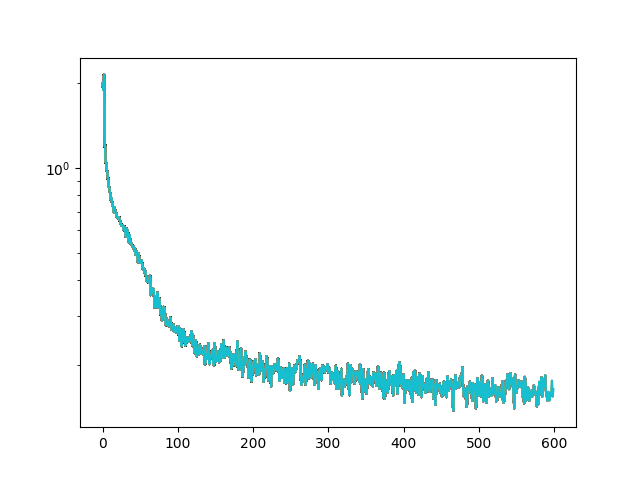
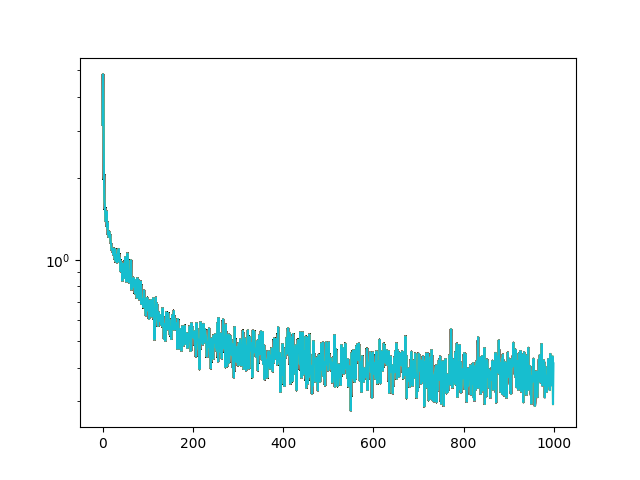
updated tunet and visualization for sine wave sampler amplitude classes

diff --git a/backbones.py b/backbones.py
@@ -29,6 +29,60 @@ class FourierEncoder(nn.Module):
         cos_embed = torch.cos(freqs) # (bs, half_dim)
         return torch.cat([sin_embed, cos_embed], dim=-1) * math.sqrt(2) # (bs, dim)
     
+class SinusoidalTimeEmbedding(nn.Module):
+    def __init__(self, dim: int):
+        super().__init__()
+ 
+        assert dim % 2 == 0
+        self.half_dim = dim // 2
+ 
+    def forward(self, t: torch.Tensor) -> torch.Tensor:
+        # t: (B,) or (B, 1)
+ 
+        t = t.view(-1, 1)
+        # (B, 1)
+ 
+        # Compute frequencies: [1, 10000^(2i/d)]
+        freqs = torch.exp(
+            -math.log(10000)
+            * torch.arange(0, self.half_dim, dtype=torch.float32)
+            / self.half_dim
+        ).to(t.device)
+        # (half_dim,)
+ 
+        angles = t * freqs * 2 * math.pi
+        # (B, half_dim)
+ 
+        emb = torch.cat([torch.sin(angles), torch.cos(angles)], dim=-1)
+        # (B, dim)
+ 
+        return emb
+
+class Conditioner(nn.Module):
+    def __init__(self, num_classes: int, t_dim: int, y_dim: int, cond_dim: int) -> None:
+        super().__init__()
+ 
+        self.t_embedder = SinusoidalTimeEmbedding(t_dim)
+        self.y_embedder = nn.Embedding(num_classes + 1, y_dim)
+ 
+        self.mlp = nn.Sequential(
+            nn.Linear(t_dim + y_dim, cond_dim),
+            nn.SiLU(),
+            nn.Linear(cond_dim, cond_dim),
+        )
+ 
+    def forward(self, t: torch.Tensor, y: torch.Tensor) -> torch.Tensor:
+        # t: (B,)
+        # y: (B,)
+ 
+        t_embed = self.t_embedder(t)
+        y_embed = self.y_embedder(y)
+        cond = torch.cat([t_embed, y_embed], dim=1)
+        cond = self.mlp(cond)
+        # (B, cond_dim)
+ 
+        return cond
+    
 class ResidualLayer(nn.Module):
     def __init__(self, channels: int, time_embed_dim: int, y_embed_dim: int):
         super().__init__()
@@ -343,74 +397,67 @@ class TUNet(ConditionalVectorField):
     """
     1D UNet for conditional sine wave generation
     """
-    def __init__(self, channels: List[int], num_residual_layers: int, t_embed_dim: int, y_embed_dim: int, y_input_dim: int = 1, input_channels: int = 1): 
+    def __init__(self, channels: List[int], num_residual_layers: int, 
+                 cond_dim: int, num_classes: int, input_channels: int = 1): 
         super().__init__()
-        # Initial convolution: (bs, 1, L) -> (bs, c_0, L)
+        
         self.init_conv = nn.Sequential(
             nn.Conv1d(input_channels, channels[0], kernel_size=3, padding=1),
             nn.BatchNorm1d(channels[0]),
             nn.SiLU()
         )
 
-        # Initialize time embedder
-        self.time_embedder = FourierEncoder(t_embed_dim)
-
-        # Initialize y embedder (for continuous conditioning)
-        self.y_embedder = nn.Sequential(
-            nn.Linear(y_input_dim, y_embed_dim),
-            nn.SiLU(),
-            nn.Linear(y_embed_dim, y_embed_dim)
+        # Replace separate embedders with Conditioner
+        self.conditioner = Conditioner(
+            num_classes=num_classes,  # e.g., 3 for your amplitude classes
+            t_dim=128,               # time embedding dimension
+            y_dim=128,               # class embedding dimension
+            cond_dim=cond_dim        # final conditioning dimension
         )
 
-        # Encoders and Decoders
+        # Encoders and Decoders (use cond_dim for both t_embed_dim and y_embed_dim)
         encoders = []
         decoders = []
         for (curr_c, next_c) in zip(channels[:-1], channels[1:]):
-            encoders.append(Encoder1D(curr_c, next_c, num_residual_layers, t_embed_dim, y_embed_dim))
-            decoders.append(Decoder1D(next_c, curr_c, num_residual_layers, t_embed_dim, y_embed_dim))
+            encoders.append(Encoder1D(curr_c, next_c, num_residual_layers, cond_dim, cond_dim))
+            decoders.append(Decoder1D(next_c, curr_c, num_residual_layers, cond_dim, cond_dim))
         self.encoders = nn.ModuleList(encoders)
         self.decoders = nn.ModuleList(reversed(decoders))
 
-        self.midcoder = Midcoder1D(channels[-1], num_residual_layers, t_embed_dim, y_embed_dim)
-            
-        # Final convolution
+        self.midcoder = Midcoder1D(channels[-1], num_residual_layers, cond_dim, cond_dim)
         self.final_conv = nn.Conv1d(channels[0], 1, kernel_size=3, padding=1)
 
     def forward(self, x: torch.Tensor, t: torch.Tensor, y: torch.Tensor):
         """
         Args:
-        - x: (bs, 1, L) where L is signal length and 1 the number of channels
-        - t: (bs, 1, 1) time parameter
-        - y: (bs, 1) frequency label
-        Returns:
-        - u_t^theta(x|y): (bs, 1, L)
+        - x: (bs, 1, L)
+        - t: (bs, 1, 1) -> will be squeezed to (bs,)
+        - y: (bs,) integer class indices [0, num_classes-1]
         """
-        # Embed t and y
-        t_embed = self.time_embedder(t) # (bs, t_embed_dim)
-        y_embed = self.y_embedder(y) # (bs, y_embed_dim)
+        # Get unified conditioning vector
+        t = t.squeeze(-1).squeeze(-1)  # (bs,)
+        y = y.squeeze(-1)  # (bs,)
+        cond = self.conditioner(t, y)  # (bs, cond_dim)
         
-        # Initial convolution
-        x = self.init_conv(x) # (bs, c_0, L)
-
+        # Use same conditioning for both time and class
+        t_embed = cond
+        y_embed = cond
+        
+        x = self.init_conv(x)
         residuals = []
         
-        # Encoders
         for encoder in self.encoders:
-            x = encoder(x, t_embed, y_embed) # (bs, c_i, L) -> (bs, c_{i+1}, L // 2)
+            x = encoder(x, t_embed, y_embed)
             residuals.append(x.clone())
 
-        # Midcoder
         x = self.midcoder(x, t_embed, y_embed)
 
-        # Decoders
         for decoder in self.decoders:
-            res = residuals.pop() # (bs, c_i, L)
+            res = residuals.pop()
             x = x + res
-            x = decoder(x, t_embed, y_embed) # (bs, c_i, L) -> (bs, c_{i-1}, 2*L)
+            x = decoder(x, t_embed, y_embed)
 
-        # Final convolution
-        x = self.final_conv(x) # (bs, 1, L)
-
+        x = self.final_conv(x)
         return x
 
 if __name__ == "__main__":
@@ -418,11 +465,11 @@ if __name__ == "__main__":
     model = TUNet(
         channels = [32, 64, 128],
         num_residual_layers = 2,
-        t_embed_dim = 40,
-        y_embed_dim = 40,
+        cond_dim = 40,
+        num_classes = 10,  # For example, if you have 10 classes
     )
     x = torch.randn(4, 1, 628)  # (bs=4, channels=1, signal_length=628)
     t = torch.randn(4, 1, 1)    # (bs=4, 1, 1)
-    y = torch.randn(4, 1)       # (bs=4, 1)
+    y = torch.randint(0, 10, (4, 1))  # (bs=4, 1) with class indices
     out = model(x, t, y)
-    print(out.shape)  # Expected output shape: (4, 1, 628)    
+    print(out.shape)  # Expected output shape: (4, 1, 628)

diff --git a/utility.py b/utility.py
@@ -206,47 +206,71 @@ def visualize_generated_mnist_samples(path: ConditionalProbabilityPath, model: C
     plt.show()
 
 def visualize_generated_sine_waves(model: ConditionalVectorField,
-                                   num_freqs: int = 5,
-                                   samples_per_freq: int = 1,
+                                   samples_per_amplitude: int = 3,
                                    num_timesteps: int = 100,
                                    guidance_scales = (1.0,)):
     """
-    Sample random frequencies, generate sine waves via the trained model, and plot them.
+    Generate sine waves per amplitude class via the trained model, and plot them grouped by amplitude.
+    
+    Args:
+        - model: trained conditional vector field model
+        - samples_per_amplitude: number of samples to generate per amplitude class
+        - num_timesteps: number of time steps for ODE simulation
+        - guidance_scales: tuple of guidance scale values to test
     """
     model.eval()
 
-    # Infer signal length from the sine sampler defaults (keeps consistent with training)
+    # Infer signal length and amplitude classes from the sine sampler
     sampler = SineWaveSampler()
     signal_length = sampler.sample_rate * sampler.duration
     t_axis = torch.linspace(0, sampler.duration, signal_length, device=device)
+    amplitudes = sampler.amplitudes  # e.g., [1, 2, 3]
+    num_classes = len(amplitudes)
+    
+    # Create CLASS INDEX labels: [0, 0, 0, 1, 1, 1, 2, 2, 2, ...]
+    class_indices = torch.arange(num_classes, device=device).repeat_interleave(samples_per_amplitude)  # (num_samples,)
+    num_samples = class_indices.shape[0]
 
-    # Random frequencies in [0, 1]; repeat for multiple samples per frequency
-    base_freqs = torch.rand(num_freqs, 1, device=device)                # (num_freqs, 1)
-    frequencies = base_freqs.repeat_interleave(samples_per_freq, dim=0) # (num_samples, 1)
-    num_samples = frequencies.shape[0]
-
-    # Initial noise and time discretization (shape-safe for 1D)
+    # Initial noise and time discretization
     x0 = torch.randn(num_samples, 1, signal_length, device=device)      # (bs, 1, L)
     ts = torch.linspace(0, 1, num_timesteps, device=device)             # (nts,)
     ts = ts.view(1, -1, 1, 1).expand(num_samples, -1, 1, 1)             # (bs, nts, 1, 1)
 
-    fig, axes = plt.subplots(1, len(guidance_scales), figsize=(10 * len(guidance_scales), 6))
-    if len(guidance_scales) == 1:
-        axes = [axes]
+    # Create subplots: rows = amplitude classes, cols = guidance scales
+    fig, axes = plt.subplots(num_classes, len(guidance_scales), 
+                            figsize=(8 * len(guidance_scales), 4 * num_classes),
+                            squeeze=False)
 
     with torch.no_grad():
-        for ax, w in zip(axes, guidance_scales):
+        for col_idx, w in enumerate(guidance_scales):
             ode = CFGVectorFieldODE(model, guidance_scale=float(w))
             simulator = EulerSimulator(ode)
-            x1 = simulator.simulate(x0.clone(), ts, y=frequencies)      # (bs, 1, L)
+            x1 = simulator.simulate(x0.clone(), ts, y=class_indices)  # (bs, 1, L)
 
-            for sidx in range(num_samples):
-                ax.plot(t_axis.cpu(), x1[sidx, 0].detach().cpu(), alpha=0.7)
+            # Plot samples grouped by amplitude class
+            for class_idx, amplitude in enumerate(amplitudes):
+                ax = axes[class_idx, col_idx]
+                
+                # Get indices for this amplitude class
+                start_idx = class_idx * samples_per_amplitude
+                end_idx = start_idx + samples_per_amplitude
+                
+                # Plot all samples in this amplitude class
+                for sample_idx in range(start_idx, end_idx):
+                    ax.plot(t_axis.cpu(), x1[sample_idx, 0].detach().cpu(), 
+                           alpha=0.7, label=f'Sample {sample_idx - start_idx + 1}')
 
-            ax.set_title(f"Guidance: w={float(w):.1f}", fontsize=14)
-            ax.set_xlabel("Time")
-            ax.set_ylabel("Amplitude")
+                # Set titles and labels
+                if class_idx == 0:
+                    ax.set_title(f"Guidance: w={float(w):.1f}", fontsize=14, fontweight='bold')
+                if col_idx == 0:
+                    ax.set_ylabel(f"Amplitude: {amplitude}", fontsize=12, fontweight='bold')
+                
+                ax.set_xlabel("Time")
+                ax.legend(loc='upper right', fontsize='small')
+                ax.grid(True, alpha=0.3)
 
+    fig.suptitle("Generated Sine Waves by Amplitude Class", fontsize=16, fontweight='bold')
     plt.tight_layout()
     plt.show()
 

diff --git a/distributions.py b/distributions.py
@@ -76,7 +76,7 @@ class SineWaveSampler(nn.Module, Sampleable):
     """
     Sampleable sine wave generator with stochastic frequency, fixed phase and amplitude as classes
     """
-    def __init__(self, amplitudes: List[float] = [1.0, 2.0, 3.0], phase: float = 0.0, sample_rate: int = 100, duration: int = int(2 * torch.pi)):
+    def __init__(self, amplitudes: List[int] = [1, 2, 3], phase: float = 0.0, sample_rate: int = 100, duration: int = int(2 * torch.pi)):
         super().__init__()
         self.amplitudes = amplitudes
         self.phase = phase
@@ -153,9 +153,9 @@ def visualize_sinewave_samples(samples: torch.Tensor, labels: torch.Tensor):
     plt.tight_layout()
     plt.show()
 
-sampler = SineWaveSampler()
-samples, labels = sampler.sample(10)
-visualize_sinewave_samples(samples, labels)
+# sampler = SineWaveSampler()
+# samples, labels = sampler.sample(10)
+# visualize_sinewave_samples(samples, labels)
 
 class WaveSampler(nn.Module, Sampleable):
     '''

diff --git a/sine_wave_diffusion_model.py b/sine_wave_diffusion_model.py
@@ -3,7 +3,7 @@ from probability_paths import GaussianConditionalProbabilityPath, LinearAlpha, L
 from distributions import SineWaveSampler
 from backbones import TUNet
 from trainers import SineWaveTrainer
-from utility import visualize_generated_sine_waves
+from utility import visualize_generated_sine_waves, visualize_sine_wave_path
 
 device = torch.device('cuda' if torch.cuda.is_available() else 'cpu')
 
@@ -21,11 +21,15 @@ path = GaussianConditionalProbabilityPath(
 tunet = TUNet(
     channels = [32, 64, 128],
     num_residual_layers = 2,
-    t_embed_dim = 40,
-    y_embed_dim = 40,
+    cond_dim=64,
+    num_classes=3
 )
 
 trainer = SineWaveTrainer(path = path, model = tunet, eta=0.1)
 trainer.train(num_epochs = 1000, device=device, lr=1e-3, batch_size=250)
 
-visualize_generated_sine_waves(model=tunet, guidance_scales=(1.0, 3.0, 5.0))
+visualize_generated_sine_waves(
+    model=tunet, 
+    samples_per_amplitude=3,
+    guidance_scales=(1.0, 3.0, 5.0)
+)

diff --git a/trainers.py b/trainers.py
@@ -83,9 +83,9 @@ class SineWaveTrainer(Trainer):
         # Step 1: Sample z,y from p_data
         z, y = self.path.sample_conditioning_variable(batch_size) # z shape (batch_size, 1, seq_len), y shape (batch_size, 1)
         
-        # Step 2: Set each label to frequency 0 with probability eta
+        # Step 2: Set each label to amplitude 0 with probability eta
         mask = torch.rand(batch_size) < self.eta
-        y[mask] = 0.0
+        y[mask] = 0
         
         # Step 3: Sample t and x
         t = torch.rand(batch_size, 1, 1).to(z.device) # (batch_size, 1, 1)

diff --git a/differential_equations.py b/differential_equations.py
@@ -71,7 +71,6 @@ class CFGVectorFieldODE(ODE):
         - y: (bs,)
         """
         guided_vector_field = self.net(x, t, y)
-        print(guided_vector_field.shape)
-        unguided_y = torch.ones_like(y) * 10
+        unguided_y = torch.ones_like(y) * 3
         unguided_vector_field = self.net(x, t, unguided_y)
         return (1 - self.guidance_scale) * unguided_vector_field + self.guidance_scale * guided_vector_field
